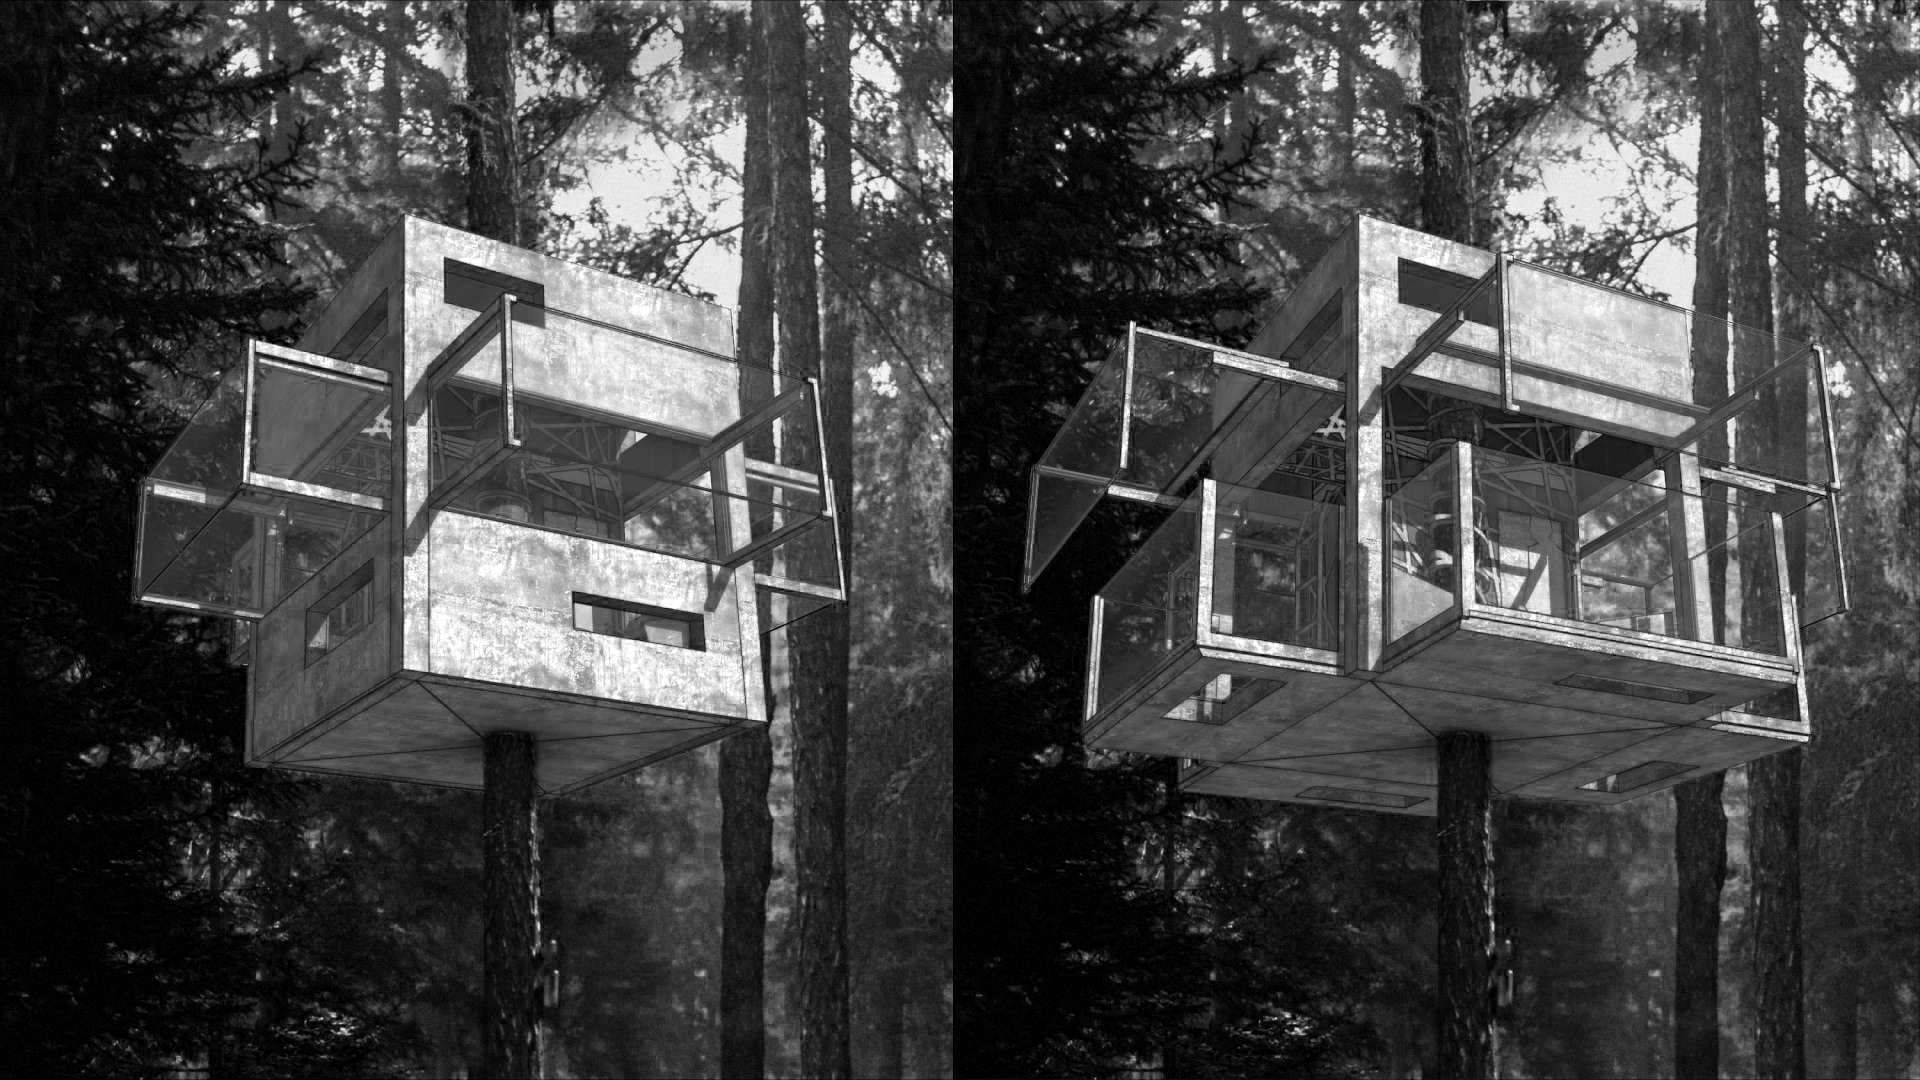
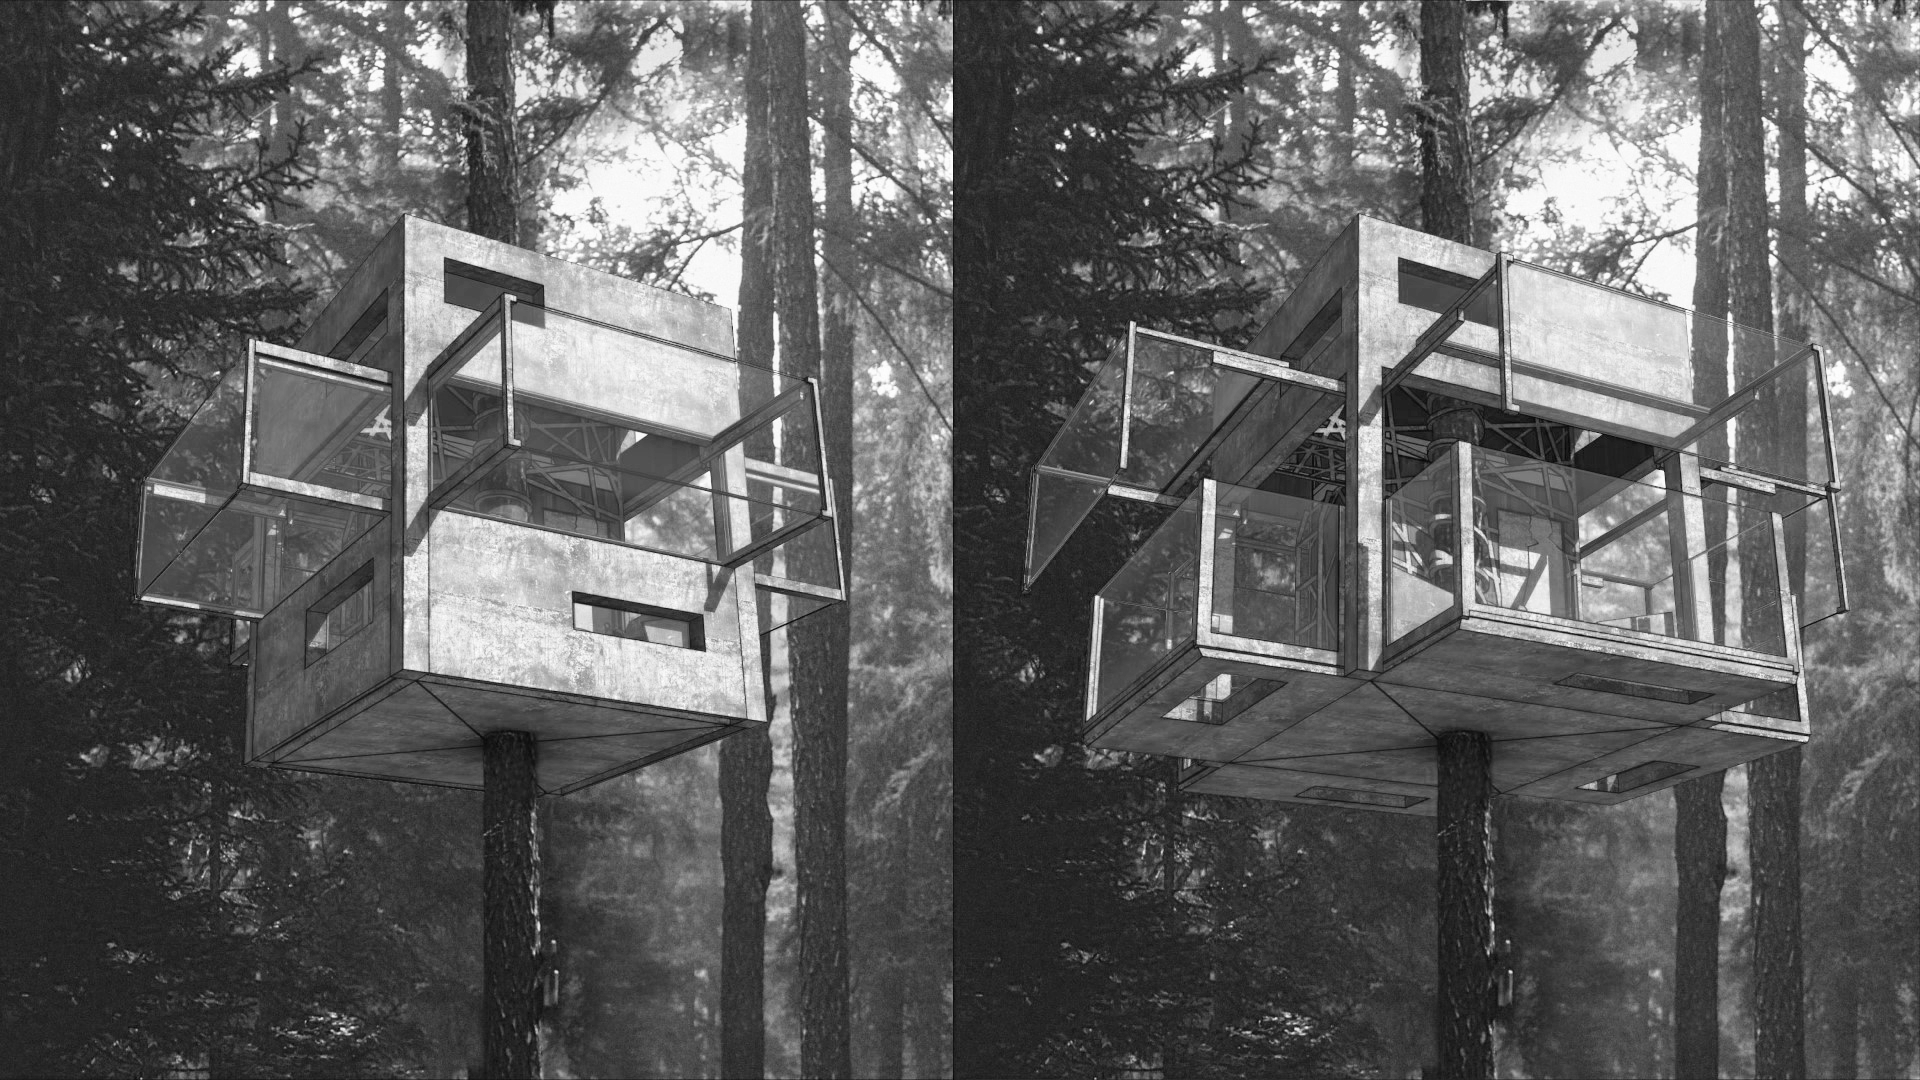
2020 Tree house changes

diff --git a/_posts/2020-06-24-Tree-House.md b/_posts/2020-06-24-Tree-House.md
@@ -10,7 +10,7 @@ author: Julian
 
 My vision of a Tree House Module for YAC competition. 
 
-![Plansza_1](/images/2020 W7K Treehouse/Cover_31560_THM.png)
+![Plansza_1](/images/2020 W7K Treehouse/A1_31560_THM.png)
 ![View_3d_Close](/images/2020 W7K Treehouse/1close.png)
 ![View_3d_Open](/images/2020 W7K Treehouse/1open.png)
 
